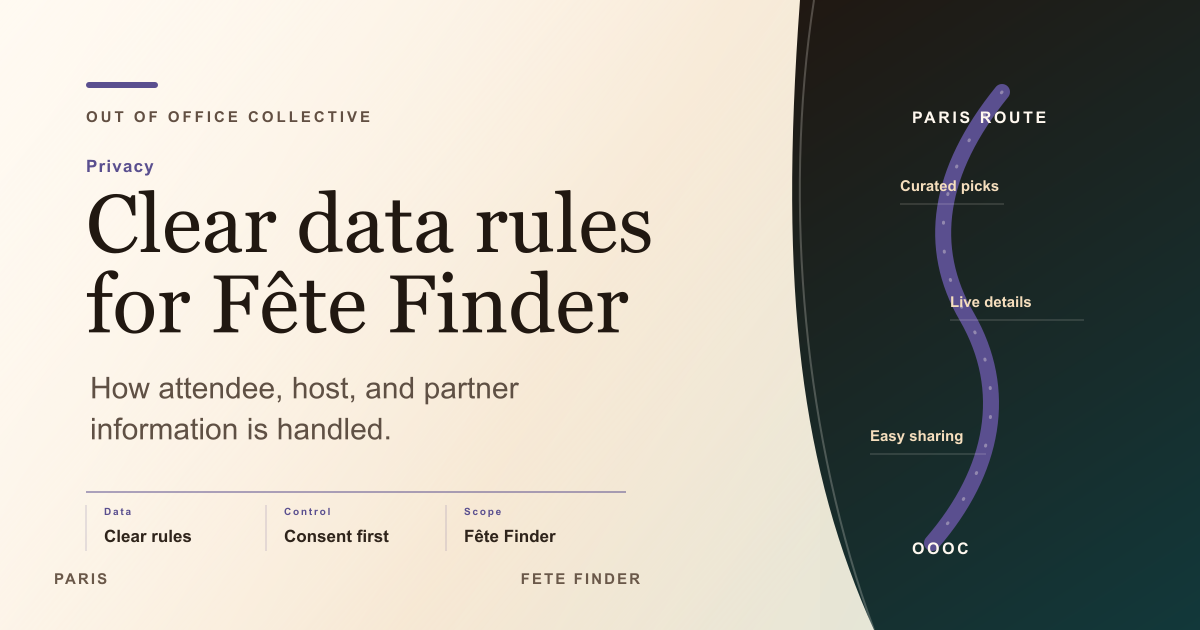
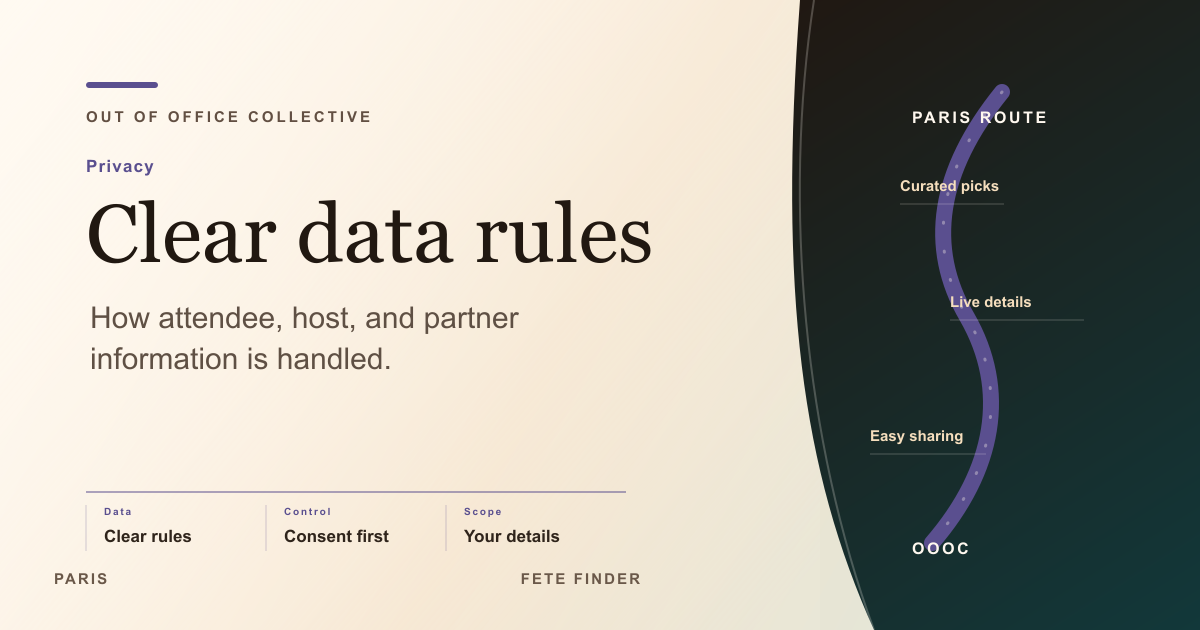
fix/simplify-static-og-titles

Changed region(s): [[0.0617, 0.3016, 0.555, 0.6333], [0.0617, 0.6635, 0.3392, 0.6937], [0.37, 0.8444, 0.4625, 0.8746]]

diff --git a/app/api/og/route.tsx b/app/api/og/route.tsx
@@ -160,7 +160,7 @@ const STATIC_PRESET_CONTENT: Record<
 	},
 	"how-it-works": {
 		variant: "default",
-		title: "How Fête Finder Works",
+		title: "How It Works",
 		subtitle:
 			"Plan your Paris music weekend with curated picks, filters and community tips",
 	},
@@ -177,7 +177,7 @@ const STATIC_PRESET_CONTENT: Record<
 	"feature-event": {
 		variant: "default",
 		title: "Partner With OOOC",
-		subtitle: "Spotlight and promoted placements in Fête Finder",
+		subtitle: "Spotlight and promoted placements for Fête de la Musique",
 	},
 	"partner-success": {
 		variant: "default",
@@ -191,8 +191,8 @@ const STATIC_PRESET_CONTENT: Record<
 	},
 	"social-assets": {
 		variant: "default",
-		title: "Fête Finder Social Assets",
-		subtitle: "Private branded export routes for Out Of Office Collective",
+		title: "Social Assets",
+		subtitle: "Private branded export routes for creative assets",
 	},
 };
 